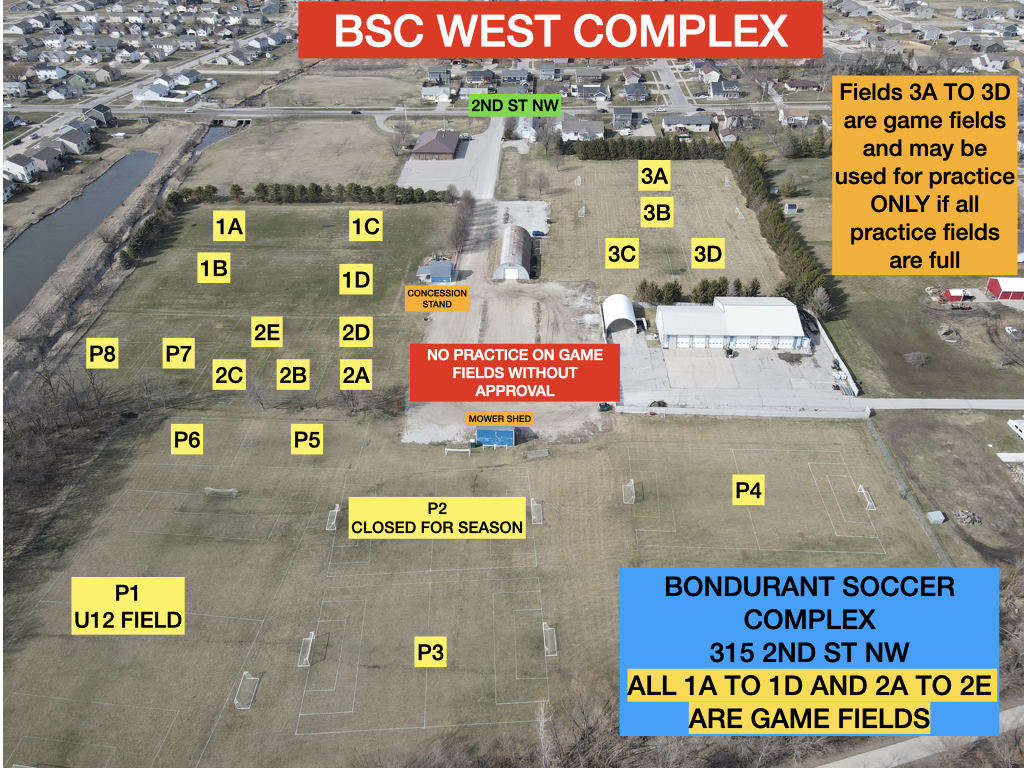
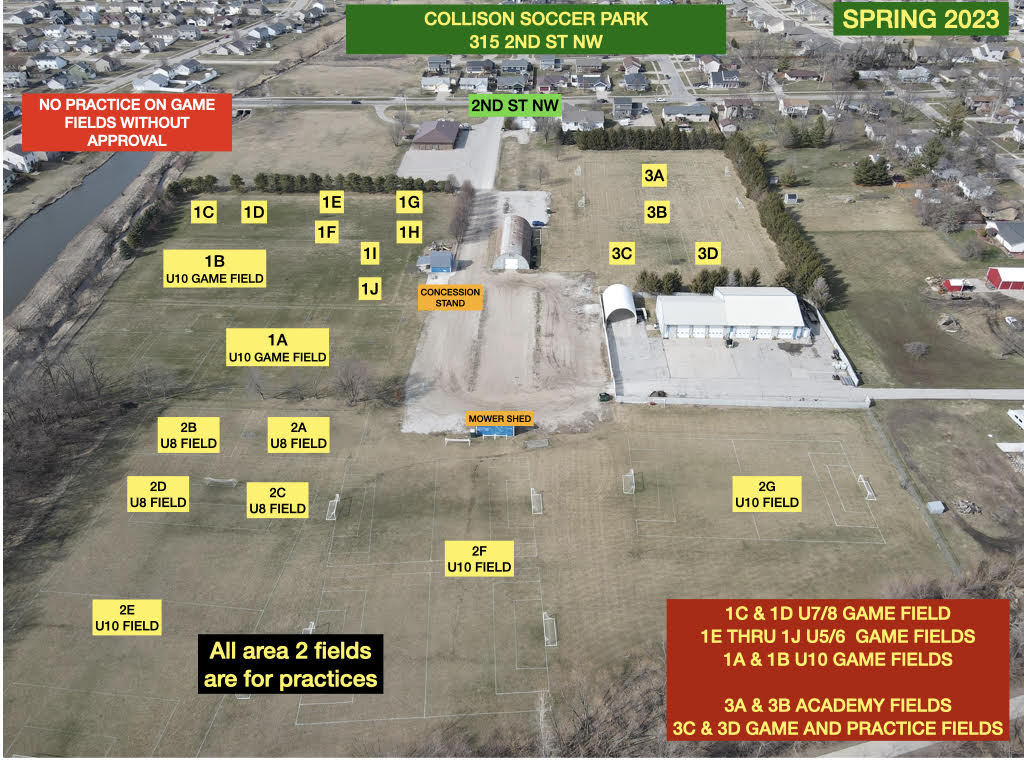
adding new field layout photo for collison soccer park

diff --git a/packages/site/src/components/locations/LocationsPage.tsx b/packages/site/src/components/locations/LocationsPage.tsx
@@ -1,8 +1,7 @@
-import React, { FunctionComponent } from 'react';
+import { FunctionComponent } from 'react';
 import { LocationSegment } from './LocationSegment';
 import { GappedStack } from '../../common/components/GappedStack';
 import { Title } from '../../common/components/Title';
-import { Seo } from '../../common/seo/Seo';
 import { useLocations } from './hooks';
 
 export const LocationsPage: FunctionComponent = () => {

diff --git a/packages/site/src/components/locations/state.tsx b/packages/site/src/components/locations/state.tsx
@@ -19,11 +19,6 @@ export const COLLISON_SOCCER_PARK_LOCATION: LocationData = {
             title: 'All Fields',
             image: 'west_complex_all_fields',
             alt: 'Arial view of all collison soccer park fields'
-        },
-        {
-            title: 'East Side',
-            image: 'west_complex_east_side',
-            alt: 'Arial view of east side of collison soccer park fields'
         }
     ]
 };
